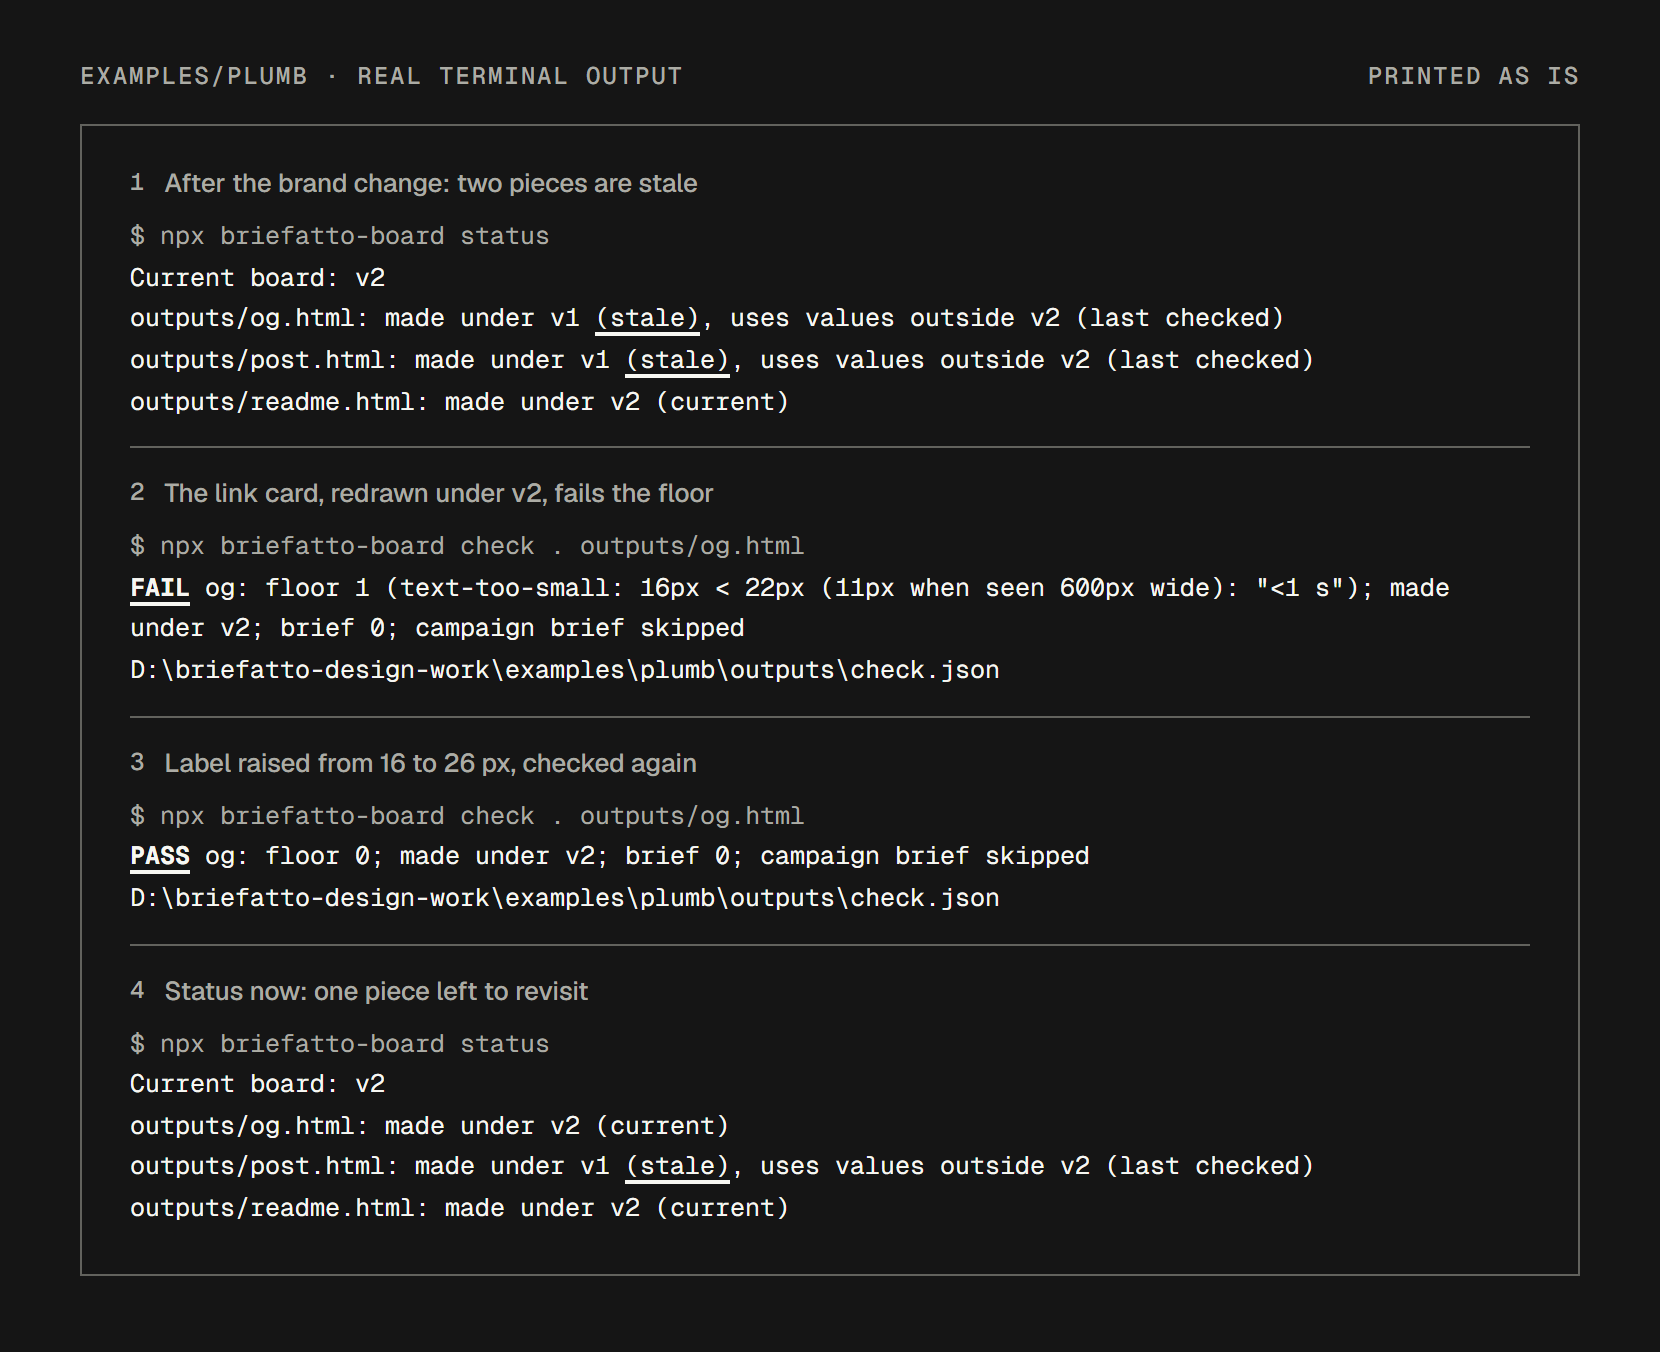
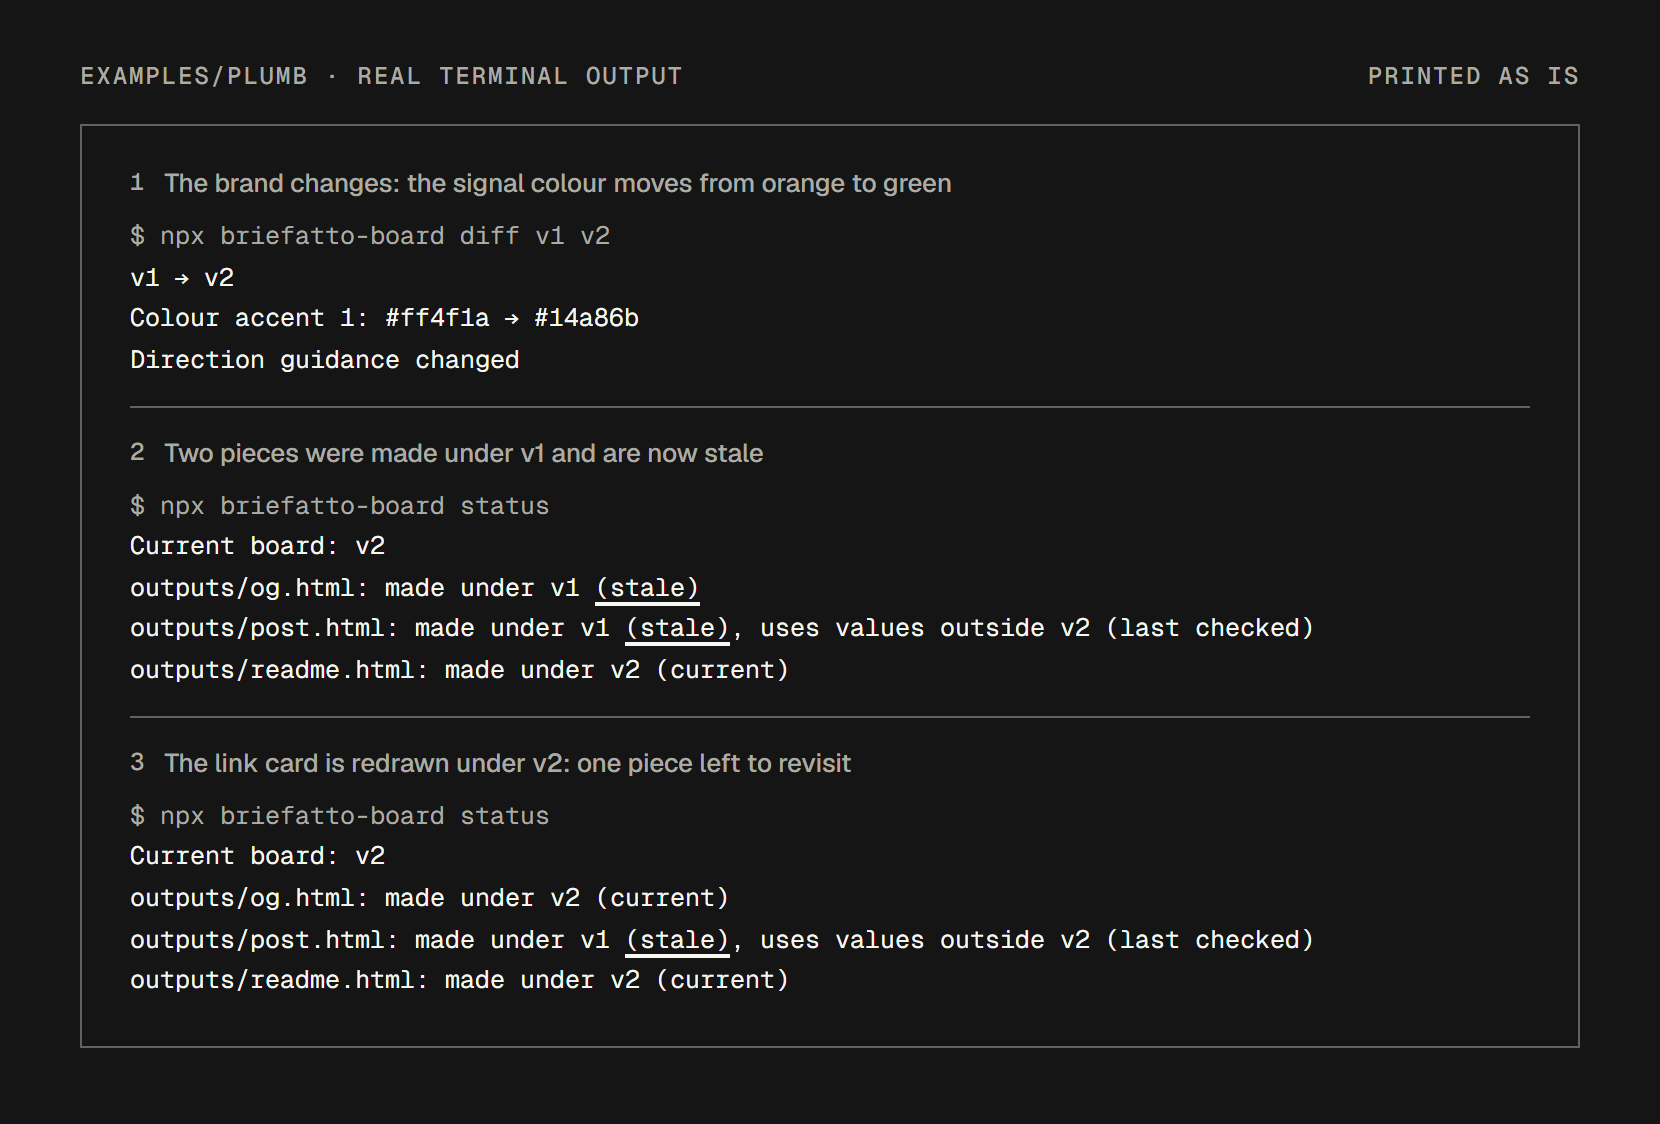
README: one sentence, one install, the evidence first
The first screen is the banner, the badges, one sentence and one install command,
then the idea diagram and the blind-test and drift-test evidence. Export check
details move to docs/ARCHITECTURE.md#export-checks, the other install routes move
under their own heading, and the commands table names the npx form once. The
terminal capture is re-shot from inside examples/plumb with relative paths only.

diff --git a/README.md b/README.md
@@ -1,29 +1,3 @@
-# Briefatto Board
-Briefatto Board is the design layer for every agent: one versioned design guide (DESIGN.md) that every agent reads before visual work, and a quality floor every rendered piece must pass. `npx briefatto-board install` writes its pointer into `AGENTS.md` and `CLAUDE.md`.
-
-```sh
-npx briefatto-board install
-```
-
-Also on skills.sh:
-
-```sh
-npx skills add Briefatto/briefatto-board
-```
-
-And as a Claude Code plugin:
-
-```sh
-claude plugin marketplace add Briefatto/briefatto-board
-claude plugin install briefatto-board@briefatto
-```
-
-**Blind-tested.** On a real open-source site, all four blind AI-model judges ranked Briefatto Board's work first, ahead of Impeccable, Taste Skill and Hallmark. [See every kit side by side](https://briefatto.com/guides/impeccable-vs-taste-skill-vs-hallmark-blind-test/). On a second site, Pyxel, all four blind AI-model judges again ranked it first, this time ahead of Anthropic's frontend-design skill: [blind test 2](https://briefatto.com/guides/frontend-design-skill-vs-briefatto-board-blind-test/). On a third site, PocketBase, every blind AI-model judge ranked it above UI UX Pro Max: [blind test 3](https://briefatto.com/guides/ui-ux-pro-max-vs-briefatto-board-blind-test/). Raw data: [Hugging Face](https://huggingface.co/datasets/briefatto-lab/design-kit-evals) · [DOI 10.5281/zenodo.24436111](https://doi.org/10.5281/zenodo.24436111).
-
-**Measured.** In an empty repo where the brand could travel only by file, Claude Code and Codex matched the brand's fonts in 0 of 18 pieces without a DESIGN.md and in 53 of 54 with one. [See the drift test](https://briefatto.com/guides/does-design-md-keep-your-brand-drift-test/).
-
-[Adopt an existing site or start a brand from a brief](#start). [Guides for every agent](https://briefatto.com/guides/). [110 ready DESIGN.md files for popular brands](https://github.com/Briefatto/design-md-gallery).
-
 <p align="center">
   <picture>
     <source media="(prefers-color-scheme: dark)" srcset=".github/assets/banner-dark.png">
@@ -33,10 +7,16 @@ claude plugin install briefatto-board@briefatto
 
 <p align="center">
   <a href="https://www.npmjs.com/package/briefatto-board"><img src="https://img.shields.io/npm/v/briefatto-board?style=flat-square&color=2538E8&label=npm" alt="npm version"></a>
-  <a href="https://github.com/Briefatto/briefatto-board/actions/workflows/ci.yml"><img src="https://github.com/Briefatto/briefatto-board/actions/workflows/ci.yml/badge.svg?branch=main" alt="CI"></a>
+  <a href="https://github.com/Briefatto/briefatto-board/actions/workflows/ci.yml"><img src="https://img.shields.io/github/actions/workflow/status/Briefatto/briefatto-board/ci.yml?branch=main&style=flat-square&label=CI" alt="CI"></a>
   <a href="LICENSE"><img src="https://img.shields.io/badge/licence-Apache--2.0-151515?style=flat-square" alt="Apache-2.0 licence"></a>
   <a href="#every-agent"><img src="https://img.shields.io/badge/built%20for-every%20agent-62625D?style=flat-square" alt="Built for every agent"></a>
 </p>
+
+Briefatto Board is the design layer for every agent. Your brand lives in one versioned `DESIGN.md` that every agent reads before it draws, and every rendered piece must pass a quality floor checked in code.
+
+```sh
+npx briefatto-board install
+```
 
 <p align="center">
   <picture>
@@ -45,11 +25,15 @@ claude plugin install briefatto-board@briefatto
   </picture>
 </p>
 
-Your brand lives in one design guide, `DESIGN.md`, and Briefatto Board keeps it versioned. Every agent session reads the guide before drawing anything, every rendered piece is checked against a quality floor, and after a brand change you are told which pieces are out of date.
+**Blind-tested.** On three open-source sites, Briefatto Board came first with 4 of 4, 4 of 4 and 3 of 4 blind AI-model judges, against Impeccable, Taste Skill, Hallmark, Anthropic's frontend-design skill and UI UX Pro Max. [Raw data](https://huggingface.co/datasets/briefatto-lab/design-kit-evals) · [DOI](https://doi.org/10.5281/zenodo.24436111) · [test 1](https://briefatto.com/guides/impeccable-vs-taste-skill-vs-hallmark-blind-test/) · [test 2](https://briefatto.com/guides/frontend-design-skill-vs-briefatto-board-blind-test/) · [test 3](https://briefatto.com/guides/ui-ux-pro-max-vs-briefatto-board-blind-test/)
+
+**Measured.** In an empty repo where the brand could travel only by file, Claude Code and Codex matched the brand's fonts in 0 of 18 pieces without a DESIGN.md and in 53 of 54 with one. [See the drift test](https://briefatto.com/guides/does-design-md-keep-your-brand-drift-test/).
+
+[Adopt an existing site or start a brand from a brief](#start). [Guides for every agent](https://briefatto.com/guides/). [110 ready DESIGN.md files for popular brands](https://github.com/Briefatto/design-md-gallery).
 
 ## Start
 
-Below, `board` stands for `npx briefatto-board`.
+`install` adds the skill and writes a pointer to the guide into `AGENTS.md` and `CLAUDE.md`.
 
 **You already have a site → adopt.** Briefatto Board captures your pages, your agent writes the design guide (`DESIGN.md`) from what it sees, and you freeze it as v1.
 
@@ -58,16 +42,31 @@ npx briefatto-board adopt .
 npx briefatto-board freeze .
 ```
 
-**Starting a brand → directions → pick → kit.** Put the brief in `brief.md` and ask your agent to follow the skill. It draws three directions with your real copy and stops once: pick one, ask for changes, or say 'you choose'. Any fact the brief leaves out is asked for in that same message and never invented. Then it writes the design guide, freezes it and makes the kit. Use the chosen direction ID in place of `lead`.
+**Starting a brand → directions → pick → kit.** Put the brief in `brief.md` and ask your agent to follow the skill. It draws three directions with your real copy and stops once: pick one, ask for changes, or say 'you choose'. Any fact the brief leaves out is asked for in that same message and never invented. Then it writes the design guide, freezes it and makes the kit. The freeze names the direction you picked; here it is `lead`.
 
 ```sh
 npx briefatto-board directions .
 npx briefatto-board freeze . lead
 ```
 
-Your pick is the production approval: the agent records your exact words in a fenced `approval lead` block in `refs/notes.md`. When you say 'you choose', it freezes with `board freeze . lead --agent-picked "<reason>"` and hands over the kit with the other two directions beside it; name another one and it switches. If you are working alone as your own client, run `board freeze . lead --self-approved`. `board log` records the decision.
+Your pick is the approval, and `board log` records it.
 
 Node.js 24 or later. The first render prints the Playwright command to install Chromium if it is missing.
+
+### Other ways to install
+
+On skills.sh:
+
+```sh
+npx skills add Briefatto/briefatto-board
+```
+
+As a Claude Code plugin:
+
+```sh
+claude plugin marketplace add Briefatto/briefatto-board
+claude plugin install briefatto-board@briefatto
+```
 
 ## How it works
 
@@ -82,12 +81,12 @@ Node.js 24 or later. The first render prints the Playwright command to install C
 - **A quality floor for every piece.** `board check` renders each piece and fails it for text that is clipped, off the canvas, over other text, too small where it is seen, in a font that never loaded, or below WCAG contrast, and for the anti-patterns found by the [Impeccable](https://github.com/pbakaus/impeccable) detector.
 - **Truthful status.** Each piece declares the version it was made under. After a brand change, `board status` lists which pieces are current and which are stale.
 
-This is what the CLI printed on the Plumb example, after a brand change: a stale link card, a redraw that fails the floor, the fix, and the status that follows.
+This is what the CLI printed on the Plumb example after a brand change: what changed, which pieces went stale, and the status once the link card was redrawn.
 
 <p align="center">
   <picture>
     <source media="(prefers-color-scheme: dark)" srcset=".github/assets/capture-dark.png">
-    <img src=".github/assets/capture-light.png" width="830" alt="Real terminal output from the Plumb example. board status lists og.html and post.html as stale under v2. board check fails the redrawn og.html because the label is 16px, below the 22px minimum where it is seen. After the label is raised to 26px, board check passes, and status lists only post.html as stale.">
+    <img src=".github/assets/capture-light.png" width="830" alt="Real terminal output from the Plumb example. board diff v1 v2 shows the signal colour changing from #ff4f1a to #14a86b. board status lists og.html and post.html as stale under v2. After the link card is redrawn, status lists only post.html as stale.">
   </picture>
 </p>
 
@@ -124,20 +123,7 @@ Try it on the other examples in [`examples/`](examples): [`bakery`](examples/bak
 
 ## Check the files you ship
 
-Export the finished files and list every delivery PNG and PDF in project-root `deliverables.json`. Each entry names the actual file, its editable HTML source, and the exact comparison size in pixels. Use project-relative paths.
-
-```json
-[
-  {"file":"delivery/card.png","html":"outputs/post.html","width":1080,"height":1080},
-  {"file":"delivery/poster.pdf","html":"outputs/poster.html","width":1212,"height":1704,"pageSizeMm":{"width":303,"height":426}}
-]
-```
-
-- Add `"transparent":true` for a transparent PNG. Use `viewport` with `width` and `height` when the HTML lays out at a different CSS size. Board scales the capture by the export width divided by the viewport width. Add `"fullPage":true` for a PNG of the full scroll height.
-- PDF entries describe one page. Board rasterizes the page with PDF.js and compares it with the HTML in print media. The page aspect must fit within one comparison pixel on either axis. Optional `pageSizeMm` checks the visible page box to within 0.1 mm on each axis. Use the full page size including bleed when the visible page includes it.
-- PNGs match their HTML pixel for pixel; PDFs match within a [rasterizer tolerance](docs/ARCHITECTURE.md#export-tolerance).
-
-Run `board check .` to validate the listed files, or pass HTML filenames to run layout checks too. `board kit .` requires a frozen guide and includes the layout checks and final-file results in `outputs/kit-check.json`. Each export row records the SHA-256 of the checked bytes. Use independently renderable HTML as the source for each export. With no manifest, `board check` renders HTML previews. `board kit` checks the format-named PNGs alongside their HTML and creates one only if it is missing. Use `board render <file.html>` to regenerate these PNGs after editing the HTML.
+List every delivery PNG and PDF in `deliverables.json`, and `board check .` verifies each file against its HTML source: PNGs pixel for pixel, PDFs within a rasterizer tolerance. [Export checks](docs/ARCHITECTURE.md#export-checks).
 
 ## Change the brand
 
@@ -157,17 +143,17 @@ npx briefatto-board status
 
 ## Commands
 
-| Command | What it does |
+| `npx briefatto-board …` | What it does |
 | :--- | :--- |
-| `board install` | Adds Briefatto Board and its skill to a project |
-| `board adopt .` | Captures an existing site's pages and computed styles |
-| `board refs .` | Captures references and builds a sheet from entries in `refs/manifest.json` |
-| `board directions .` | Renders the directions' samples into one comparison sheet, `directions/sheet.png` |
-| `board freeze . [direction]` | Generates source and sample values, validates the prose, and stamps the next guide version |
-| `board check . [<piece.html>]` | Checks the visual floor on supplied HTML and verifies final PNG and PDF files |
-| `board kit .` | Requires a frozen guide and checks the campaign and final exports for the kit receipt |
-| `board status` | Lists pieces as current, stale or unrecorded |
-| `board log` · `board diff v1 v2` | Shows version history and what changed |
+| `install` | Adds Briefatto Board and its skill to a project |
+| `adopt .` | Captures an existing site's pages and computed styles |
+| `refs .` | Captures references and builds a sheet from entries in `refs/manifest.json` |
+| `directions .` | Renders the directions' samples into one comparison sheet, `directions/sheet.png` |
+| `freeze . [direction]` | Generates source and sample values, validates the prose, and stamps the next guide version |
+| `check . [<piece.html>]` | Checks the visual floor on supplied HTML and verifies final PNG and PDF files |
+| `kit .` | Requires a frozen guide and checks the campaign and final exports for the kit receipt |
+| `status` | Lists pieces as current, stale or unrecorded |
+| `log` · `diff v1 v2` | Shows version history and what changed |
 
 ## Licence
 

diff --git a/docs/ARCHITECTURE.md b/docs/ARCHITECTURE.md
@@ -86,7 +86,7 @@ Versions live in files because Git is already the collaboration layer. A brand c
 
 Status reads a declaration because redrawing is a decision. A piece states its version, the board reports, the agent redraws, and the floor checks the result before it counts as current.
 
-In three blind tests on real open-source sites, the judges ranked the Briefatto Board kit first every time: on Issue Composer ahead of Impeccable, Taste Skill and Hallmark ([see every kit side by side](https://briefatto.com/guides/impeccable-vs-taste-skill-vs-hallmark-blind-test/)), on Pyxel ahead of Anthropic's frontend-design skill ([blind test 2](https://briefatto.com/guides/frontend-design-skill-vs-briefatto-board-blind-test/)), and on PocketBase above UI UX Pro Max ([blind test 3](https://briefatto.com/guides/ui-ux-pro-max-vs-briefatto-board-blind-test/)).
+In three blind tests on real open-source sites, the Briefatto Board kit came first with 4 of 4, 4 of 4 and 3 of 4 blind AI-model judges: on Issue Composer ahead of Impeccable, Taste Skill and Hallmark ([see every kit side by side](https://briefatto.com/guides/impeccable-vs-taste-skill-vs-hallmark-blind-test/)), on Pyxel ahead of Anthropic's frontend-design skill ([blind test 2](https://briefatto.com/guides/frontend-design-skill-vs-briefatto-board-blind-test/)), and on PocketBase above UI UX Pro Max ([blind test 3](https://briefatto.com/guides/ui-ux-pro-max-vs-briefatto-board-blind-test/)).
 
 ## Questions and answers
 
@@ -113,6 +113,23 @@ The freeze fails. The report gives the line, the claimed value and the nearest v
 ### Which agents does Briefatto Board work with?
 
 Every agent. The guide is a plain file in the project, the protocol is a plain skill file, and the work is done by a CLI any agent can call. Every agent reads the same frozen guide and runs the same checks.
+
+## Export checks
+
+Export the finished files and list every delivery PNG and PDF in project-root `deliverables.json`. Each entry names the actual file, its editable HTML source, and the exact comparison size in pixels. Use project-relative paths.
+
+```json
+[
+  {"file":"delivery/card.png","html":"outputs/post.html","width":1080,"height":1080},
+  {"file":"delivery/poster.pdf","html":"outputs/poster.html","width":1212,"height":1704,"pageSizeMm":{"width":303,"height":426}}
+]
+```
+
+- Add `"transparent":true` for a transparent PNG. Use `viewport` with `width` and `height` when the HTML lays out at a different CSS size. Board scales the capture by the export width divided by the viewport width. Add `"fullPage":true` for a PNG of the full scroll height.
+- PDF entries describe one page. Board rasterizes the page with PDF.js and compares it with the HTML in print media. The page aspect must fit within one comparison pixel on either axis. Optional `pageSizeMm` checks the visible page box to within 0.1 mm on each axis. Use the full page size including bleed when the visible page includes it.
+- PNGs match their HTML pixel for pixel; PDFs match within a [rasterizer tolerance](#export-tolerance).
+
+Run `board check .` to validate the listed files, or pass HTML filenames to run layout checks too. `board kit .` requires a frozen guide and includes the layout checks and final-file results in `outputs/kit-check.json`. Each export row records the SHA-256 of the checked bytes. Use independently renderable HTML as the source for each export. With no manifest, `board check` renders HTML previews. `board kit` checks the format-named PNGs alongside their HTML and creates one only if it is missing. Use `board render <file.html>` to regenerate these PNGs after editing the HTML.
 
 ## Export tolerance
 A PNG must match every decoded RGBA pixel. Board ignores RGB values under fully transparent pixels. Lossless encoding of the same Chromium capture preserves these pixels exactly. PDFs allow a mean maximum-channel difference of 2 on a 0–255 scale and at most 2% of pixels differing by more than 32. In each 64 × 64 pixel tile, Board also compares pixels in both directions within one pixel of their position to account for rasterizer edge placement. The mean after this allowance must be at most 5. The A3 export measured 0.40 overall, 0.53% above 32, and 2.44 in the worst tile. A smaller type-and-vector PDF also passes. Removing a short date line stayed within the overall limits and exceeded the tile limit. The PDF regressions cover both scenarios.
